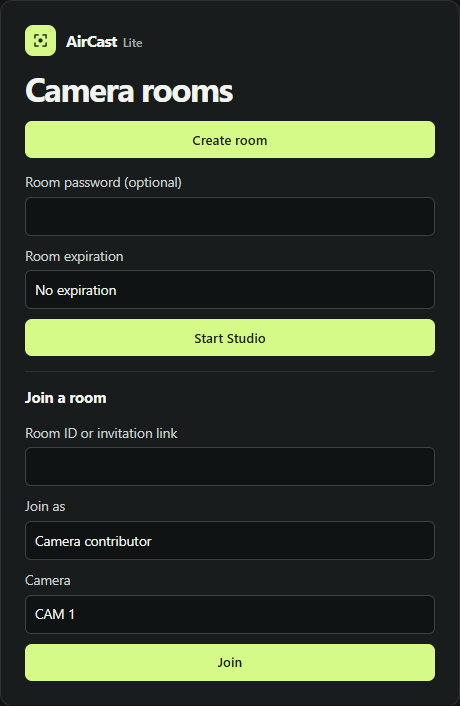
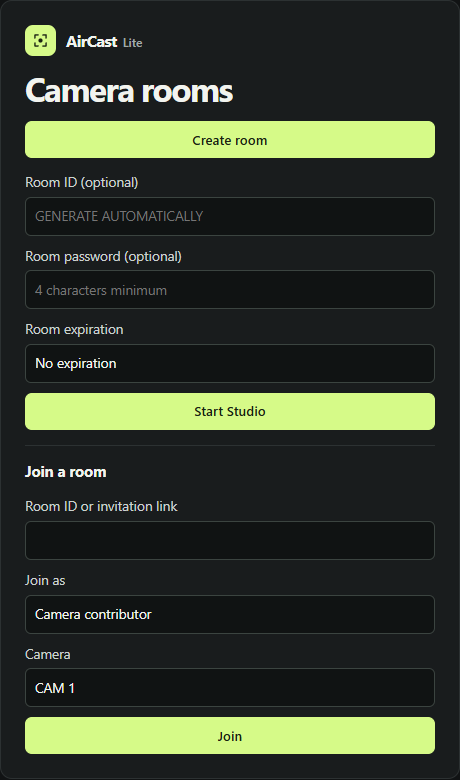
Add custom room IDs, creator access, and an expiry countdown

Changed region(s): [[0.0304, 0.0312, 0.9435, 0.6544], [0.0304, 0.6856, 0.9435, 0.966], [0.913, 0.3739, 0.9435, 0.4051]]

diff --git a/public/aircast-app.js b/public/aircast-app.js
@@ -11,6 +11,10 @@ if (view !== 'output') {
     navigator.serviceWorker.register('./aircast-sw.js').catch(() => {});
   }
 }
+
+const ownerKey = (room) => 'aircast-owner:' + room;
+const aliasKey = (room) => 'aircast-custom-id:' + room;
+
 function joinRoom() {
   const code = normalizeRoom(query.get('join'));
   if (code) $('joinValue').value = code;
@@ -25,25 +29,38 @@ function joinRoom() {
     event.preventDefault();
     let password = $('createPassword').value;
     $('createPassword').value = '';
+    const requested = normalizeRoom($('createRoomId').value.trim());
     const hours = Number($('roomExpiry').value);
     const destination = new URL(location.protocol === 'file:' ? './index.html' : './', location.href);
-    const room = randomCode(16);
     const expires = hours ? Date.now() + hours * 3600000 : 0;
-    destination.searchParams.set('room', room);
+    const namespace = randomCode(16);
+    let room = requested || randomCode(16);
     event.submitter.disabled = true;
     $('joinFeedback').textContent = '';
     try {
+      const alias = requested && saved(aliasKey(requested));
+      if (alias?.room && (!alias.expires || alias.expires > Date.now())) throw new Error('This Room ID is already in use. Choose another ID.');
       if (password) {
-        const { envelope, recovery, access } = await AirCastSealed.create(room, password, expires);
+        let protectedSetup = await AirCastSealed.create(room, password, expires);
+        const stored = await AirCastSealed.request('POST', room, protectedSetup.envelope);
+        if (!stored) {
+          room = (requested || 'ROOM') + '-' + namespace;
+          protectedSetup = await AirCastSealed.create(room, password, expires);
+        }
         password = '';
-        const stored = await AirCastSealed.request('POST', room, envelope);
+        const { envelope, recovery, access } = protectedSetup;
         roomManifest = { room, envelope, stored, expires };
         roomAccess = { ...access, role: 'host', slot: '' };
         store(AirCastSealed.recoveryKey(room), recovery);
-      } else if (expires) {
-        await AirCastSealed.request('POST', room, '0.' + expires);
-        roomManifest = { room, expires };
+      } else {
+        const stored = await AirCastSealed.request('POST', room, '2.' + expires + '.' + namespace);
+        if (!stored) room = (requested || 'ROOM') + '-' + namespace;
+        roomManifest = { room, expires, openNamespace: namespace };
       }
+      store(ownerKey(room), true);
+      if (requested) store(aliasKey(requested), { room, expires });
+      destination.searchParams.set('room', room);
+      destination.searchParams.set('owner', '1');
       history.replaceState(null, '', roomLink(destination, room));
       query.set('room', room);
       showRoom('studio');
@@ -84,23 +101,41 @@ function showEntryError(error, retry) {
 }
 
 async function findRoom(room, address, required = false) {
-  if (!/^[A-Z2-9]{16}$/.test(room)) return null;
+  if (!room) return null;
   const envelope = new URLSearchParams(address.hash.slice(1)).get('room');
   if (envelope !== null) return { room, envelope, stored: false };
-  if (address.searchParams.has('until') && !required) {
-    const expires = Number(address.searchParams.get('until'));
-    if (/^[1-9]\d{12}$/.test(String(expires))) return { room, expires };
-  }
-  const record = await AirCastSealed.request('GET', room);
+  const openNamespace = room.split('-')[1];
+  const record = openNamespace || !navigator.onLine ? null : await AirCastSealed.request('GET', room);
   if (record?.startsWith('1.')) return { room, envelope: record, stored: true };
   if (record?.startsWith('0.')) return { room, expires: Number(record.slice(2)) };
+  if (record?.startsWith('2.')) {
+    const [, expires, namespace] = record.split('.');
+    return { room, expires: Number(expires), openNamespace: namespace };
+  }
   if (required) throw new Error('The encrypted room data is missing. Open the full room link or scan the QR again.');
+  if (address.searchParams.get('open') === '1' && !openNamespace) throw new Error('This Room ID is unavailable.');
+  const until = address.searchParams.get('until');
+  const expires = /^[1-9]\d{12}$/.test(until) ? Number(until) : 0;
+  if (expires || openNamespace) return { room, expires, openNamespace };
   return null;
+}
+
+function showCountdown(expires) {
+  $('roomExpiryStatus').hidden = false;
+  const update = () => {
+    const remaining = Math.max(0, Math.ceil((expires - Date.now()) / 1000));
+    const clock = [Math.floor(remaining / 3600), Math.floor(remaining / 60) % 60, remaining % 60];
+    $('roomCountdown').textContent = clock.map((value) => String(value).padStart(2, '0')).join(':');
+  };
+  update();
+  const timer = setInterval(update, 1000);
+  window.addEventListener('pagehide', () => clearInterval(timer), { once: true });
 }
 
 function showRoom(route) {
   if (roomManifest?.expires) {
     AirCastSealed.checkExpiry(roomManifest.expires);
+    if (route === 'studio') showCountdown(roomManifest.expires);
     setTimeout(() => location.reload(), Math.max(0, roomManifest.expires - Date.now() + 100));
   }
   document.documentElement.dataset.view = route;
@@ -125,7 +160,13 @@ async function boot(password) {
       try { inherited = window.parent.aircastProgramRoom?.(target.room); } catch { /* A cross-origin parent cannot unlock a room. */ }
     }
     if (inherited?.manifest.stored && !location.hash) roomManifest = inherited.manifest;
-    if (sealed || query.has('until')) roomManifest ||= await findRoom(target.room, new URL(location.href), sealed);
+    if (sealed || view === 'studio' || query.has('open') || query.has('until') || target.room.includes('-')) {
+      roomManifest ||= await findRoom(target.room, new URL(location.href), sealed);
+    }
+    if (view === 'studio' && !sealed && (roomManifest?.envelope ||
+        ((roomManifest?.openNamespace || query.has('owner')) && saved(ownerKey(target.room)) !== true))) {
+      throw new Error('Studio is available in the browser that created this room. Use a camera pairing link or the Program viewer link to join.');
+    }
     if (sealed) {
       if (!roomManifest?.envelope) throw new Error('The encrypted room data is missing.');
       if (view === 'output') {

diff --git a/public/index.html b/public/index.html
@@ -60,7 +60,8 @@
     <h1 id="joinTitle">Camera rooms</h1>
     <button class="btn accent" id="createRoom" type="button" aria-expanded="false" aria-controls="createRoomForm">Create room</button>
     <form id="createRoomForm" hidden>
-      <label class="field">Room password (optional)<input type="password" id="createPassword" minlength="12" maxlength="128" autocomplete="new-password" placeholder="12 characters minimum"></label>
+      <label class="field">Room ID (optional)<input id="createRoomId" type="text" minlength="3" maxlength="16" pattern="[A-Za-z0-9]{3,16}" title="Use 3–16 letters or numbers." placeholder="Generate automatically" autocapitalize="characters" autocomplete="off" spellcheck="false"></label>
+      <label class="field">Room password (optional)<input type="password" id="createPassword" minlength="4" maxlength="128" autocomplete="new-password" placeholder="4 characters minimum"></label>
       <label class="field">Room expiration<select id="roomExpiry"><option value="0">No expiration</option><option value="1">1 hour</option><option value="4">4 hours</option><option value="12">12 hours</option><option value="24">24 hours</option><option value="168">7 days</option></select></label>
       <button class="btn accent" type="submit">Start Studio</button>
     </form>
@@ -86,13 +87,14 @@
     <div class="brand"><span class="brand-mark" data-icon="brand"></span><span>AirCast <em>Lite</em></span></div>
     <div class="group">
       <span class="signal hide-small" id="studioSignal" role="status"><span class="dot"></span><span>Connecting</span></span>
-      <a class="btn ghost plain room-btn" id="roomButton" href="./index.html" title="Leave Studio and return to room home"><span class="room-word">Room</span><span class="mono" id="roomCode"></span></a>
+      <a class="btn ghost plain room-btn" id="roomButton" href="./index.html" title="Leave Studio and return to room home"><span class="room-word">Room</span><span class="mono truncate" id="roomCode"></span></a>
       <button class="btn ghost plain" id="setupButton" aria-label="OBS setup"><span data-icon="help"></span><span>OBS setup</span></button>
     </div>
   </div></header>
   <main class="workspace">
     <div class="spread workspace-heading">
       <div><h1>Camera studio</h1><p>Switch live cameras in Program or send individual feeds to OBS.</p></div>
+      <div class="room-expiry" id="roomExpiryStatus" hidden><span>Room expires in</span><time id="roomCountdown" class="mono" role="timer"></time></div>
     </div>
     <div class="studio-grid">
       <div class="stack">
@@ -317,7 +319,7 @@
         <span class="signal" id="phoneConnectionStatus" role="status"><span class="dot"></span><span>Unpaired</span></span>
       </div>
       <div class="phone-capture-settings">
-        <label class="field">Room ID<input id="phoneRoom" class="mono" type="text" enterkeyhint="go" required minlength="3" maxlength="16" pattern="[A-Za-z0-9]{3,16}" autocapitalize="characters" autocomplete="off" spellcheck="false"></label>
+        <label class="field">Room ID<input id="phoneRoom" class="mono" type="text" enterkeyhint="go" required minlength="3" maxlength="33" pattern="[A-Za-z0-9]{3,16}(?:-[A-Za-z2-9]{16})?" autocapitalize="characters" autocomplete="off" spellcheck="false"></label>
         <label class="field">Camera<select id="phoneSlot"></select></label>
       </div>
       <p class="small muted" id="phoneConnectionHint" role="status" hidden></p>

diff --git a/public/aircast-core.js b/public/aircast-core.js
@@ -117,6 +117,7 @@ function makeUrl(room, view, slot, muted = false) {
 function roomLink(address, room, manifest = roomManifest) {
   if (manifest?.room !== room) return address.href;
   if (manifest.envelope !== undefined) return AirCastSealed.link(address, manifest.envelope, manifest.stored);
+  if (manifest.openNamespace && !room.includes('-')) address.searchParams.set('open', '1');
   if (manifest.expires) address.searchParams.set('until', manifest.expires);
   return address.href;
 }
@@ -126,11 +127,19 @@ function obsLink(address, slot) {
 }
 
 function endpoint(room) {
-  return roomAccess ? 'AIRCAST-SEALED-HUB-' + roomAccess.namespace : AirCastRooms.endpoint(room, null);
+  if (roomAccess) return 'AIRCAST-SEALED-HUB-' + roomAccess.namespace;
+  const namespace = openNamespace(room);
+  return namespace ? 'AIRCAST-OPEN-HUB-' + namespace : AirCastRooms.endpoint(room, null);
 }
 
 function cameraEndpoint(room, slot) {
-  return roomAccess ? 'AIRCAST-SEALED-CAM-' + roomAccess.namespace + '-' + slot : AirCastRooms.endpoint(room, slot);
+  if (roomAccess) return 'AIRCAST-SEALED-CAM-' + roomAccess.namespace + '-' + slot;
+  const namespace = openNamespace(room);
+  return namespace ? 'AIRCAST-OPEN-CAM-' + namespace + '-' + slot : AirCastRooms.endpoint(room, slot);
+}
+
+function openNamespace(room) {
+  return (roomManifest?.room === room ? roomManifest.openNamespace : '') || room.split('-')[1];
 }
 
 const incomingCaps = new WeakMap();

diff --git a/public/aircast.css b/public/aircast.css
@@ -394,7 +394,14 @@ html[data-keyboard][data-view=phone] #phoneDialog[open] {
 #programImageControls :is(.control-row, .control-details) { grid-column: 1 / -1; }
 #programImageControls .control-row .btn { flex: 0 1 auto; }
 #programImageControls .adjustment { margin: 0; }
-#sourceDialog[data-source=usb] { width: min(680px, calc(100% - 24px)); }
+#sourceDialog { width: min(680px, calc(100% - 24px)); height: min(670px, calc(100dvh - 28px)); overflow: hidden; }
+#sourceDialog[open] { display: flex; flex-direction: column; }
+#sourceDialog > .modal-head { flex: none; }
+#sourceDialog > .modal-body { flex: 1; min-height: 0; overflow: auto; align-content: start; }
+#createRoomId { text-transform: uppercase; }
+#roomCode { max-width: min(33ch, 38vw); }
+.room-expiry { display: grid; gap: 3px; flex: none; text-align: right; font-size: .8rem; color: var(--quiet); }
+.room-expiry time { color: var(--text); font-variant-numeric: tabular-nums; }
 .usb-framing { display: grid; gap: 12px; padding-top: 13px; border-top: 1px solid var(--line); }
 .usb-framing-grid { display: grid; grid-template-columns: minmax(0, 1.12fr) minmax(0, 1fr); gap: 13px; align-items: start; }
 .usb-framing-preview { display: grid; gap: 7px; margin: 0; }

diff --git a/public/aircast-sealed.js b/public/aircast-sealed.js
@@ -35,7 +35,7 @@ const AirCastSealed = (() => {
 
   async function create(room, password, expires) {
     requireCrypto();
-    if (password.length < 12 || password.length > 128) throw new Error('Use 12–128 characters for the room password.');
+    if (password.length < 4 || password.length > 128) throw new Error('Use 4–128 characters for the room password.');
     const salt = random(16);
     const key = await derive(password, salt);
     const host = await crypto.subtle.generateKey(ellipticCurve, true, ['sign', 'verify']);
@@ -300,6 +300,7 @@ const AirCastSealed = (() => {
     url.searchParams.set('room', room);
     const response = await fetch(url, { method, body: envelope, cache: 'no-store', redirect: 'error', signal: AbortSignal.timeout(3500) });
     if ([404, 405, 501].includes(response.status)) return null;
+    if (response.status === 409) throw error('This Room ID is already in use. Choose another ID.', 'ROOM_TAKEN');
     if (response.status === 410) throw error('This room has expired.', 'ROOM_EXPIRED');
     if (!response.ok) throw new Error('Encrypted room storage is temporarily unavailable.');
     if (method === 'POST') return response.status === 201;

diff --git a/functions/api/rooms.js b/functions/api/rooms.js
@@ -8,8 +8,8 @@ function reply(body = null, status = 200) {
 }
 
 function expiry(manifest) {
-  const match = /^(?:0\.([1-9]\d{12})|1\.(0|[1-9]\d{12})\.[A-Za-z0-9_-]{22}\.[A-Za-z0-9_-]{16}\.[A-Za-z0-9_-]{151})$/.exec(manifest);
-  return match ? Number(match[1] ?? match[2]) : null;
+  const match = /^(?:0\.([1-9]\d{12})|1\.(0|[1-9]\d{12})\.[A-Za-z0-9_-]{22}\.[A-Za-z0-9_-]{16}\.[A-Za-z0-9_-]{151}|2\.(0|[1-9]\d{12})\.[A-Z2-9]{16})$/.exec(manifest);
+  return match ? Number(match[1] ?? match[2] ?? match[3]) : null;
 }
 
 async function readManifest(request) {
@@ -31,7 +31,7 @@ export async function onRequest({ request, env }) {
   if (!bucket) return reply(null, 501);
   const url = new URL(request.url);
   const room = url.searchParams.get('room');
-  if (!room || !/^[A-Z2-9]{16}$/.test(room)) return reply(null, 400);
+  if (!room || !/^[A-Z0-9]{3,16}$/.test(room)) return reply(null, 400);
   const key = objectPrefix + room;
   if (request.method === 'GET') {
     const object = await bucket.get(key);

diff --git a/public/aircast-sw.js b/public/aircast-sw.js
@@ -2,7 +2,7 @@
 
 const scope = new URL(self.registration.scope);
 const cacheFamily = 'aircast-lite-shell:' + scope.pathname + ':';
-const cacheName = cacheFamily + 'v24';
+const cacheName = cacheFamily + 'v25';
 const app = new URL('index.html', scope).href;
 const assets = ['aircast-rooms.js', 'aircast-sealed.js', 'aircast-diagnostics.js', 'aircast-qr.min.js', 'aircast-core.js', 'aircast-studio.js',
   'aircast-phone.js', 'aircast-output.js', 'aircast-app.js', 'aircast.css', 'aircast.webmanifest', 'aircast-icon-192.png', 'aircast-icon-512.png', 'aircast-peer.min.js']

diff --git a/public/aircast-rooms.js b/public/aircast-rooms.js
@@ -1,7 +1,7 @@
 'use strict';
 
 const AirCastRooms = (() => {
-  const room = (value) => typeof value === 'string' && /^[A-Z0-9]{3,16}$/i.test(value) ? value.toUpperCase() : '';
+  const room = (value) => typeof value === 'string' && /^[A-Z0-9]{3,16}(?:-[A-Z2-9]{16})?$/i.test(value) ? value.toUpperCase() : '';
   const slot = (value) => typeof value === 'string' && /^CAM(?:[1-9]|1\d|2[0-4])$/i.test(value) ? value.toUpperCase() : '';
 
   function output(query) {

diff --git a/public/aircast-studio.js b/public/aircast-studio.js
@@ -421,6 +421,7 @@ function studio() {
 
   function startRoom() {
     $('roomCode').textContent = room;
+    $('roomCode').title = room;
     $('roomButton').title = roomAccess ? 'Encrypted room' : 'Public room';
     signaler = new Signaler(endpoint(room), (message, tone) => {
       setSignal($('studioSignal'), message, tone);

diff --git a/README.md b/README.md
@@ -6,7 +6,7 @@ Turn a phone, USB webcam, or MJPEG camera into an OBS Browser Source. Use a came
 
 ## Rooms and OBS outputs
 
-Select **Create room** on the home page. Choose a password and an expiration if you need them, then select **Start Studio** to generate the Room ID. To join an existing room, enter its ID or pairing link and choose **Camera contributor** or **Program viewer**. Contributors pick a slot before joining. Each room keeps separate Studio settings.
+Select **Create room** on the home page. Enter a custom Room ID of 3–16 letters or numbers, or leave it blank to generate one. The optional expiration appears as a live countdown in Studio. To invite someone, share a camera pairing link or the copied Program link. New Studio URLs open in the browser that created the room.
 
 ![AirCast home page with optional room password and expiration settings](docs/images/room-home.png)
 
@@ -16,9 +16,9 @@ Open **Outputs** for Browser Source dimensions, individual camera links, and cle
 
 ![AirCast Output Manager showing Program Browser Source settings](docs/images/output-manager.png)
 
-A password of at least 12 characters encrypts the room in the browser. Paste the copied OBS link into a **Browser** source. It shows the pairing QR while waiting for the camera. The contributor scans the QR, enters the password on their phone, enables the camera, and taps **Go live**. Share the password separately with camera contributors. Encrypted Program viewers open the copied Program link. Copy fresh encrypted OBS links created before v2.2.1.
+A password of at least four characters encrypts the room in the browser. Use a longer passphrase when room access matters. Paste the copied OBS link into a **Browser** source. It shows the pairing QR while waiting for the camera. The contributor scans the QR, enters the password on their phone, enables the camera, and taps **Go live**. Share the password separately with camera contributors. Encrypted Program viewers open the copied Program link. Copy fresh encrypted OBS links created before v2.2.1.
 
-Encrypted links work on static HTTPS hosting. The optional Cloudflare R2 setup enables shorter links, joining encrypted rooms by Room ID, and server-side expiry of future downloads. AirCast also closes expired room connections in its clients. [Cloudflare storage and expiry](docs/cloudflare-pages.md#optional-encrypted-room-storage)
+Encrypted links work on static HTTPS hosting. AirCast appends a unique suffix to Room IDs when storage is unavailable. Optional Cloudflare R2 reserves the exact Room ID, supports shorter links, and enforces expiry for future downloads. AirCast also closes expired room connections in its clients. [Cloudflare storage and expiry](docs/cloudflare-pages.md#optional-encrypted-room-storage)
 
 ![AirCast Studio showing the live Program monitor, Multiview, and the Program framing controls](docs/images/studio.png)
 

diff --git a/docs/cloudflare-pages.md b/docs/cloudflare-pages.md
@@ -44,7 +44,7 @@ After editing the app, run the local smoke test described in the [README](../REA
 
 Encrypted rooms work on HTTPS without any Cloudflare binding. In this setup, the full link or QR carries an encrypted room manifest in its URL fragment. Share the room password separately. The Room ID alone cannot look up a portable encrypted room.
 
-To enable short links and Room ID lookup, create a private R2 bucket. In the Pages application, add an **R2 bucket** binding named `ROOM_ENVELOPES` for the desired environment and redeploy Pages. Keep public bucket access disabled. Only the `/api/rooms` Pages Function uses this binding. It accepts encrypted room manifests and public expiration records. The binding has no role in key derivation or decryption. [Cloudflare Pages R2 bindings](https://developers.cloudflare.com/pages/functions/bindings/#r2-buckets)
+To reserve exact custom Room IDs and enable short links, create a private R2 bucket. In the Pages application, add an **R2 bucket** binding named `ROOM_ENVELOPES` for the desired environment and redeploy Pages. Keep public bucket access disabled. Only the `/api/rooms` Pages Function uses this binding. It accepts encrypted room manifests and public routing and expiration metadata. It rejects a duplicate ID while the original record remains. Without R2, AirCast appends a unique suffix so similarly named rooms have different URLs. [Cloudflare Pages R2 bindings](https://developers.cloudflare.com/pages/functions/bindings/#r2-buckets)
 
 AirCast clients close connections when an optional expiry passes. With R2, the API also rejects future fetches of the expired room. Previously downloaded ciphertext and portable links can still be decrypted by someone who knows the password. The bucket retains the encrypted records according to its retention policy.
 

diff --git a/SECURITY.md b/SECURITY.md
@@ -10,4 +10,6 @@ Camera contributors prove room membership before exchanging media descriptions o
 
 Encryption protects the room manifest. It does not grant server-side authorization or prevent arbitrary API requests, signaling disruption, administrative resource deletion, or access to public metadata such as a room locator or expiry. The optional storage endpoint has no overwrite or delete action. With storage, the server refuses future reads after expiry. A person who saved ciphertext and knows the password can still decrypt it independently. Connected participants can also record the streams they receive.
 
+AirCast's Studio UI limits newly created open rooms to the creator’s browser. Open rooms still use public media links. Password-protected rooms use a separate cryptographic Studio credential.
+
 The browser requests camera and microphone access when the operator enables them. Closing or leaving the phone page releases capture. AirCast does not store camera recordings on the server. WebRTC connections may use a TURN relay. Any local clip recording is stored by the operator’s browser.
